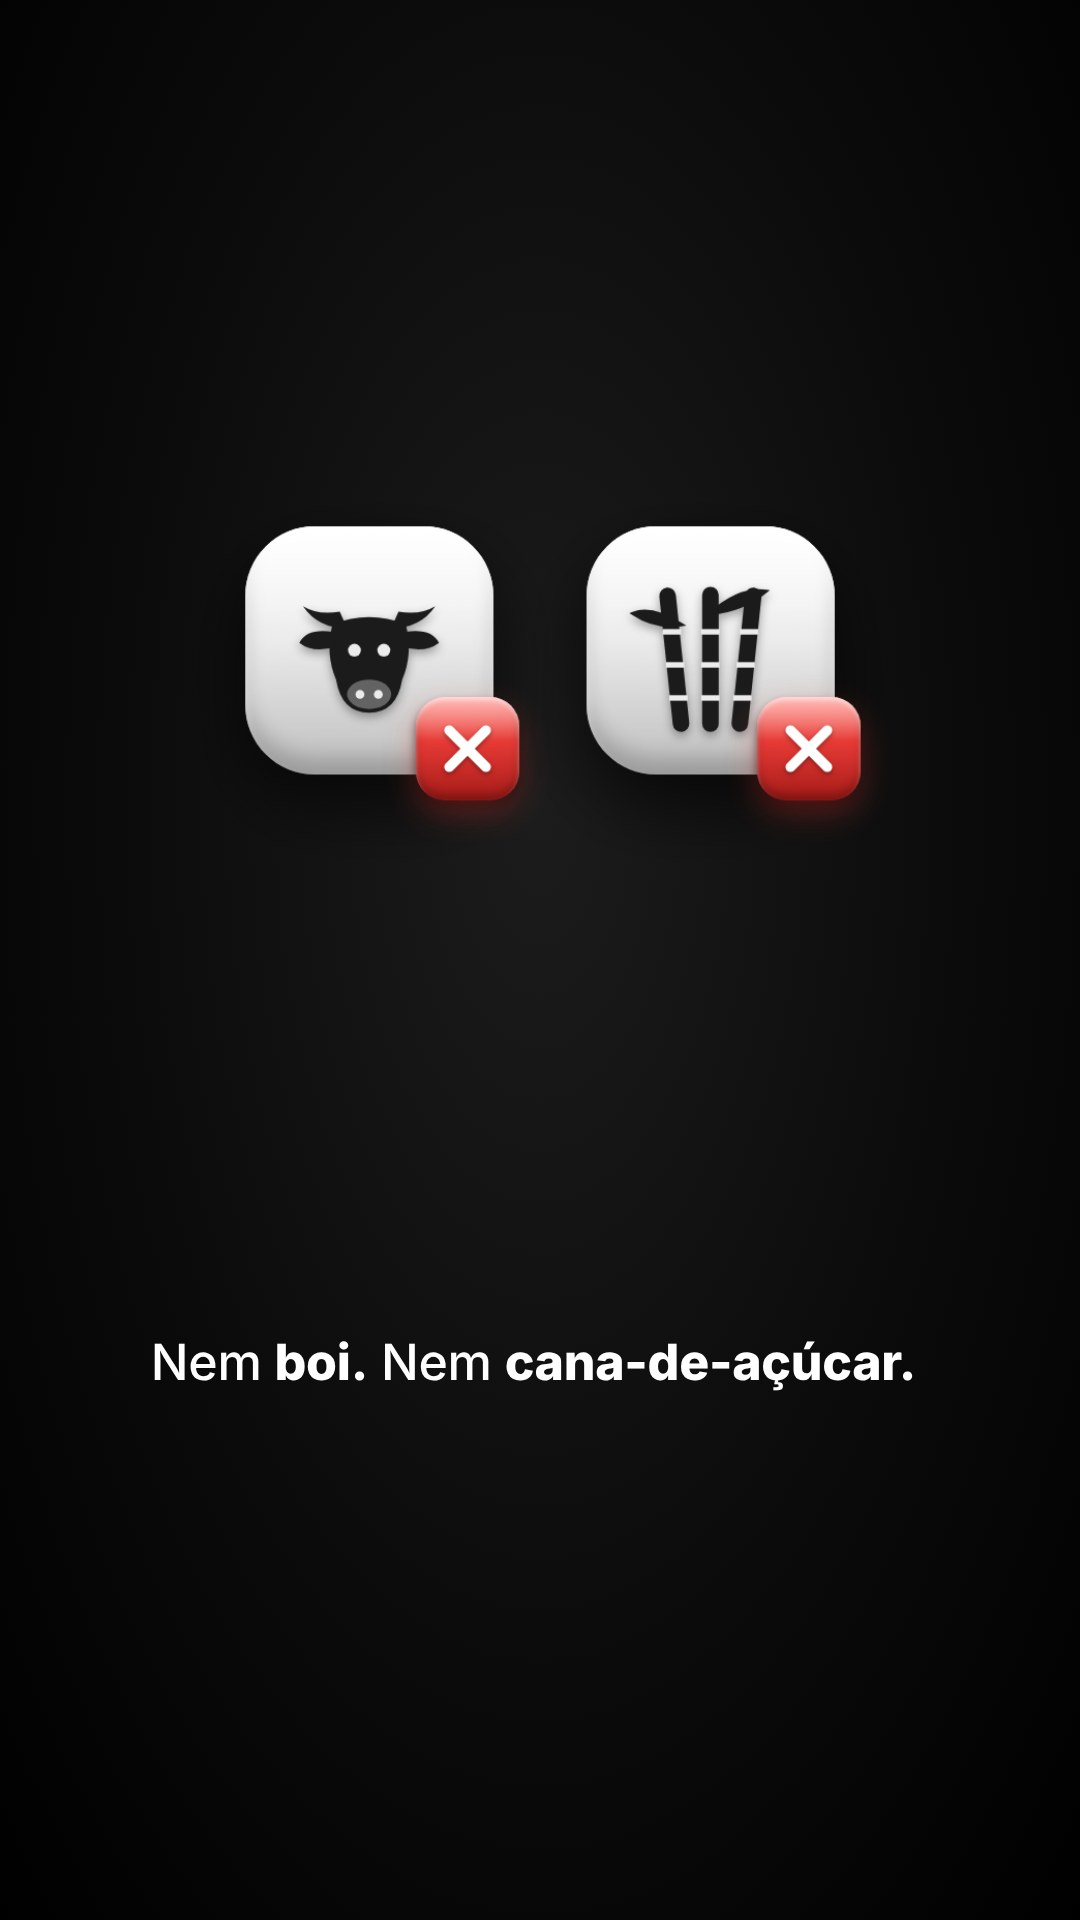
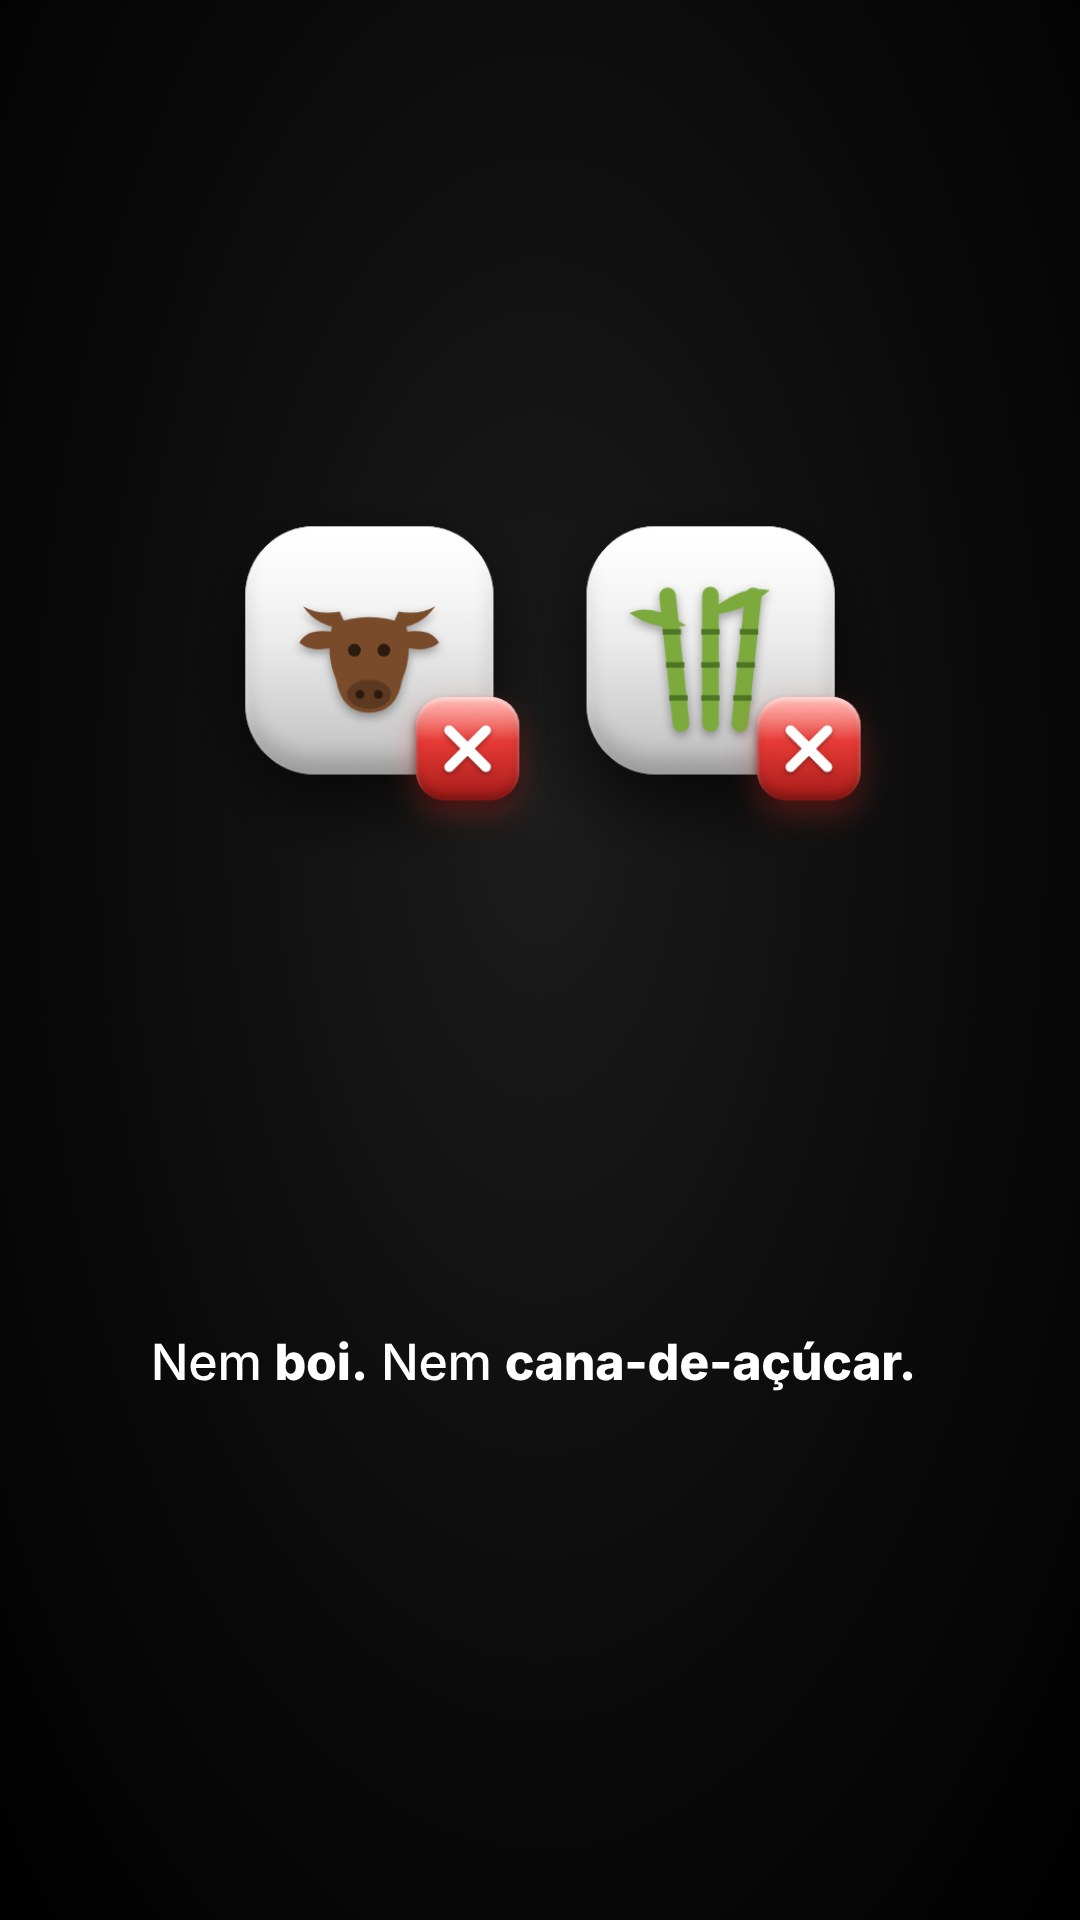
Ícones de coisas reais com cor real; ilustração do café colorida
Claude-Session: https://claude.ai/code/session_01RMhrmGVZ8xvx14hiJXZHtB

Changed region(s): [[0.5806, 0.2812, 0.7028, 0.375], [0.275, 0.3125, 0.3972, 0.375]]

diff --git a/src/componentes/Glifos.tsx b/src/componentes/Glifos.tsx
@@ -64,8 +64,10 @@ const Navio: G = ({ c }) => (
 const Tomate: G = ({ c }) => (
   <g fill={c}>
     <path d="M50 30 c26 0 38 14 36 30 c-2 18 -18 28 -36 28 c-18 0 -34 -10 -36 -28 c-2 -16 10 -30 36 -30z" />
-    <path d="M50 32 l-14 -8 l10 -2 l-6 -10 l10 6 l0 -10 l6 10 l8 -6 l-4 10 l12 0 z" />
   </g>
+);
+const TomateFolha: G = ({ c }) => (
+  <path d="M50 32 l-14 -8 l10 -2 l-6 -10 l10 6 l0 -10 l6 10 l8 -6 l-4 10 l12 0 z" fill={c} />
 );
 
 const Batata: G = ({ c }) => (
@@ -188,7 +190,7 @@ export const glifos: Record<string, G[]> = {
   boi: [Boi, BoiDetalhe],
   cana: [Cana, CanaNos],
   navio: [Navio],
-  tomate: [Tomate],
+  tomate: [Tomate, TomateFolha],
   batata: [Batata, BatataOlhos],
   chocolate: [Chocolate],
   virus: [Virus],
@@ -204,14 +206,33 @@ export const glifos: Record<string, G[]> = {
   relogio: [Relogio],
 };
 
-/** Desenha um glifo; camadas de detalhe usam a cor de contraste. */
-export const Glifo: React.FC<{ nome: string; cor: string; contraste: string; tamanho: number }> = ({ nome, cor, contraste, tamanho }) => {
+/** Cores reais das coisas que existem (camada principal, detalhe). Símbolos abstratos não entram aqui. */
+export const coresNaturais: Record<string, [string, string]> = {
+  cafe: ["#6F4A2F", "#6F4A2F"],
+  boi: ["#7A4B2A", "#2B1A10"],
+  cana: ["#7DAA3C", "#4E7424"],
+  tomate: ["#D8432C", "#4E8A2E"],
+  batata: ["#C79A5B", "#7E5A2C"],
+  chocolate: ["#5A3520", "#5A3520"],
+  cavalo: ["#8A5A32", "#24160C"],
+  flor: ["#E58AA6", "#F4C542"],
+};
+
+/** Desenha um glifo; camadas de detalhe usam a cor de contraste (ou a cor real, se `natural`). */
+export const Glifo: React.FC<{ nome: string; cor: string; contraste: string; tamanho: number; natural?: boolean }> = ({
+  nome,
+  cor,
+  contraste,
+  tamanho,
+  natural,
+}) => {
   const camadas = glifos[nome];
   if (!camadas) throw new Error(`Glifo inexistente: ${nome}`);
+  const real = natural ? coresNaturais[nome] : undefined;
   return (
     <svg width={tamanho} height={tamanho} viewBox="0 0 100 100">
       {camadas.map((C, i) => (
-        <C key={i} c={i === 0 ? cor : contraste} />
+        <C key={i} c={real ? real[i === 0 ? 0 : 1] : i === 0 ? cor : contraste} />
       ))}
     </svg>
   );

diff --git a/src/tipos.ts b/src/tipos.ts
@@ -3,7 +3,7 @@ export type Destaque = { palavra: string; cor: Cor };
 
 /** Descrição do que aparece na tela em cada cena. */
 export type Visual =
-  | { tipo: "foto"; imagem: string; legenda?: string; satelites?: string[]; alertas?: string[] }
+  | { tipo: "foto"; imagem: string; pb?: boolean; legenda?: string; satelites?: string[]; alertas?: string[] }
   | { tipo: "icone"; nome: string; variante?: Cor; rotulo?: string; satelites?: string[]; marca?: "x" }
   | { tipo: "icones"; itens: { nome: string; variante?: Cor; marca?: "x" }[] }
   | { tipo: "navio"; carga?: string[]; variante?: Cor }

diff --git a/src/componentes/Icone3D.tsx b/src/componentes/Icone3D.tsx
@@ -41,7 +41,7 @@ export const Icone3D: React.FC<{ nome: string; variante?: Cor; tamanho: number; 
         }}
       />
       <div style={{ filter: `drop-shadow(0 ${tamanho * 0.02}px ${tamanho * 0.02}px rgba(0,0,0,0.35))`, display: "flex" }}>
-        <Glifo nome={nome} cor={vermelho ? "#ffffff" : "#1b1b1b"} contraste={vermelho ? "#E53935" : "#ececec"} tamanho={tamanho * 0.74} />
+        <Glifo nome={nome} cor={vermelho ? "#ffffff" : "#1b1b1b"} contraste={vermelho ? "#E53935" : "#ececec"} tamanho={tamanho * 0.74} natural={!vermelho} />
       </div>
     </div>
   );

diff --git a/src/cenas/Visual.tsx b/src/cenas/Visual.tsx
@@ -87,7 +87,7 @@ export const Visual: React.FC<{ v: V; slug: string; roteiro: Roteiro }> = ({ v, 
         <>
           {v.satelites ? <Satelites nomes={v.satelites} /> : null}
           <Entra x={CX} y={CY}>
-            <FotoMoldura src={`${slug}/${v.imagem}`} largura={760} altura={560} legenda={v.legenda} />
+            <FotoMoldura src={`${slug}/${v.imagem}`} largura={760} altura={560} legenda={v.legenda} pb={v.pb ?? true} />
           </Entra>
           {(v.alertas ?? []).map((n, i) => {
             const pos = [

diff --git a/estilo/GUIA.md b/estilo/GUIA.md
@@ -21,6 +21,7 @@ Wizebot e Cervello (`referencias/movimento-*`) são só referência de **técnic
 ## Elementos visuais
 - **Fotos reais** (P&B quando históricas) em molduras arredondadas (raio ~18 px, borda escura grossa, sombra), flutuando com leve movimento/zoom. Ex.: navio, iceberg, capitão, navio vizinho, bote.
 - **Ícones 3D** estilo "app icon": azulejo arredondado com volume (brilho no topo, sombra embaixo), **branco** com símbolo escuro, ou **vermelho** com símbolo branco (alerta, cadeado). Pequenos ícones-satélite desfocados em volta do principal dão profundidade.
+  - **Coisas reais ganham a cor real** (dono, 2026-11-23): café marrom, cavalo marrom, tomate vermelho-tomate com folha verde, cana verde, batata bege, chocolate marrom. Símbolos abstratos (alerta, X, setas, pessoa, globo, prato) continuam preto/branco/vermelho. Cores em `coresNaturais` (`src/componentes/Glifos.tsx`).
   - **Feitos em código** (CSS/SVG em Remotion). Não usar Higgsfield nem geração de imagem paga.
 - **Gráficos em linha branca**: silhueta do navio e do iceberg numa linha d'água, velocímetro, casco com compartimentos enchendo de **vermelho**, anel com contador, número grande.
 - **Foto recortada sem moldura** para o momento de maior impacto (Titanic: jornaleiro com "TITANIC DISASTER", quadro 26).
